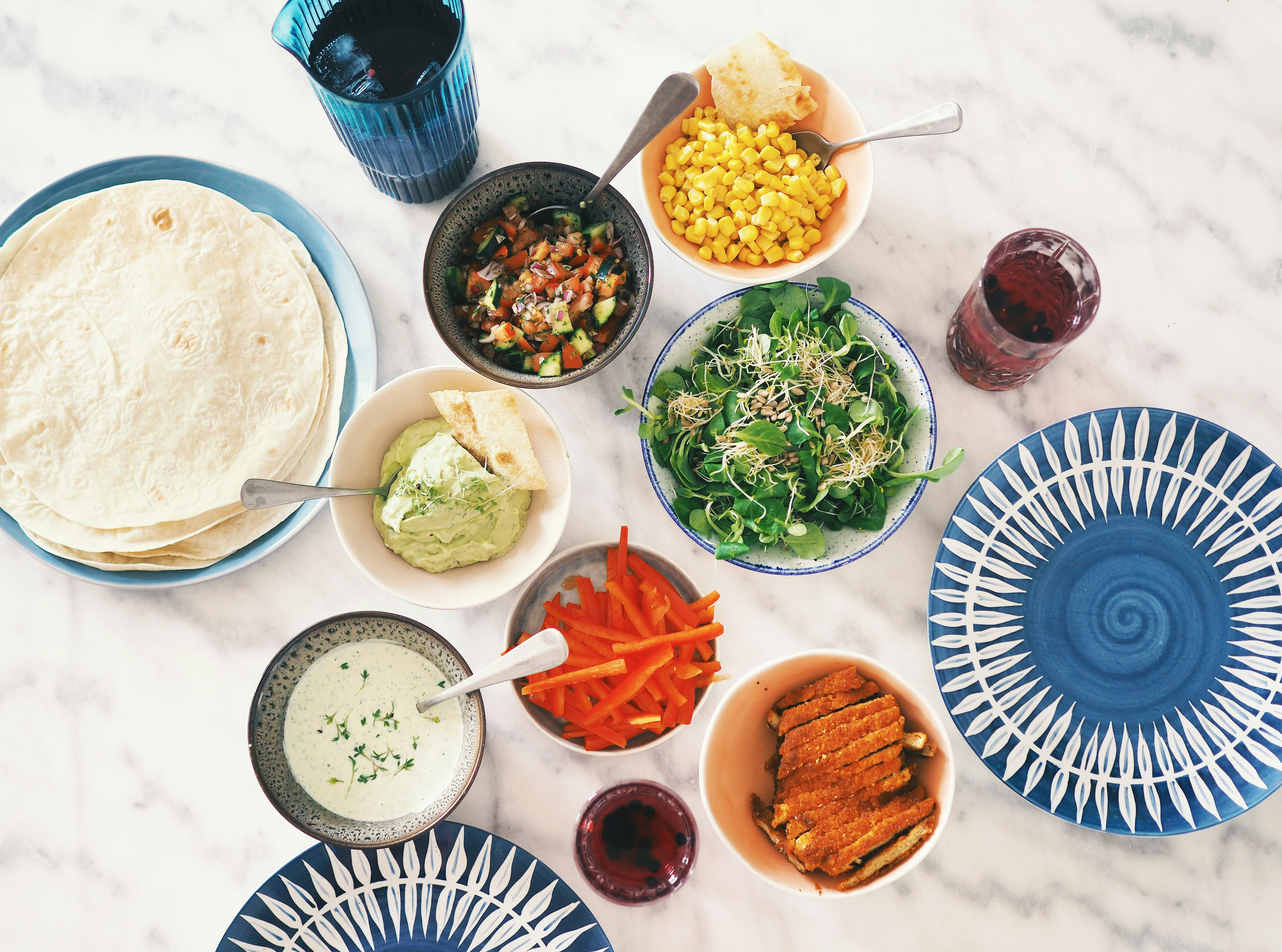
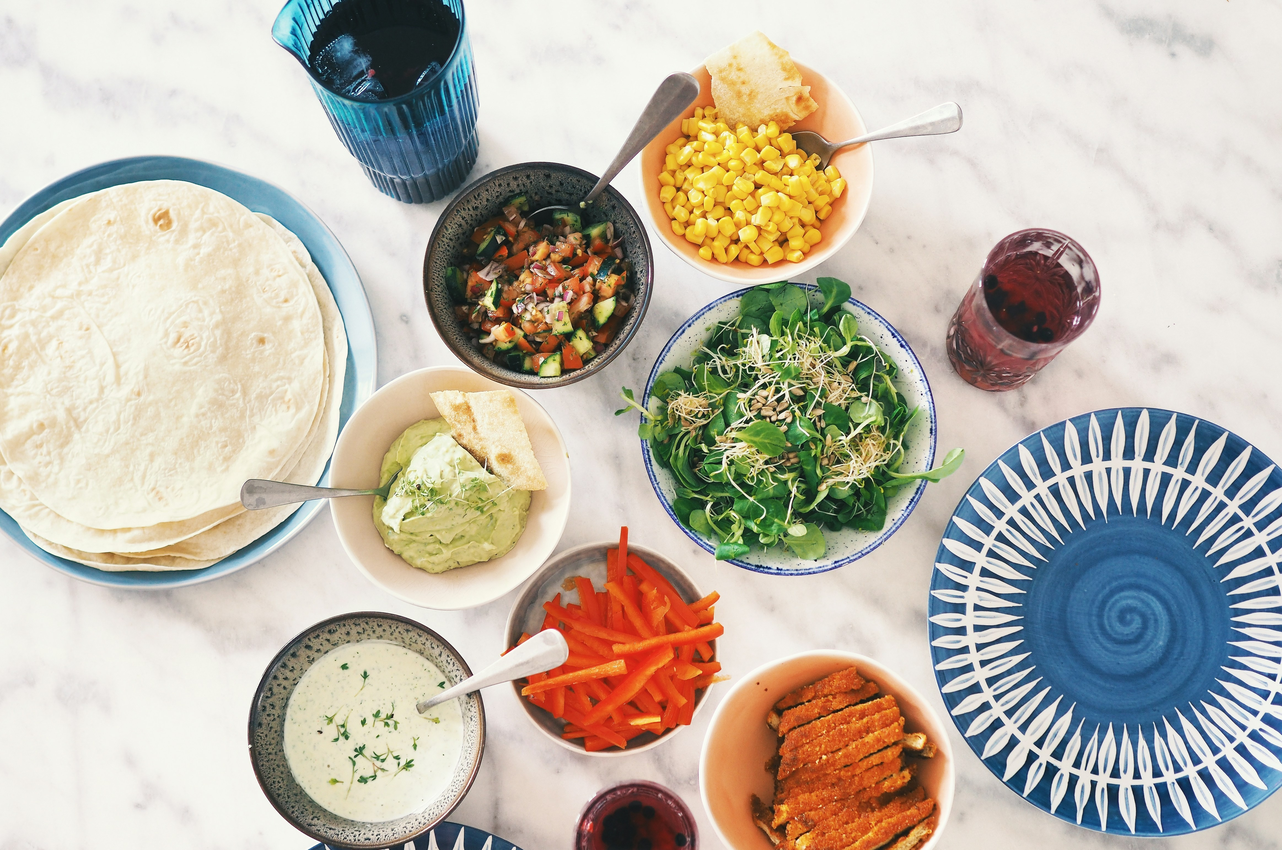
finished portfolio page

diff --git a/src/portfolio.html b/src/portfolio.html
@@ -58,7 +58,7 @@
                 <ul class="dropdown-menu">
                   <li><a class="dropdown-item" href="cardeal.html">Cardeal</a></li>
                   <li><a class="dropdown-item" href="skyline-apartments.html">Skyline Residences Apartments</a></li>
-                  <li><a class="dropdown-item" href="shop-til-you-drop.html">Shop Til' You Drop</a></li>
+                  <li><a class="dropdown-item" href="shop-til-you-drop.html">Shop 'Til You Drop</a></li>
                   <li><a class="dropdown-item" href="notes-app.html">Notes App</a></li>
                   <li><a class="dropdown-item" href="wildcat-store.html">Wildcat Store</a></li>
                   <li><a class="dropdown-item" href="recipe-meal-prep.html">Recipe & Meal Prep Website</a></li>
@@ -80,11 +80,137 @@
         </div>
       </div>
     </section>
-    <section>
-      <p></p>
+    <section class="portfolio-section">
+      <div class="container1">
+        <div class="row mt-5 mb-2">
+          <!-- Card 1 -->
+          <div class="col-md-6">
+            <div class="card">
+              <img src="./images/apartment-image.jpg" class="card-img-top" alt="Front-end Stack" />
+              <div class="card-body">
+                <h4 class="card-title text-center mt-3">Skyline Residences Prototype</h4>
+                <p class="text-left mt-4">
+                  I am creating an apartment prototype website for a fictitious company called Skyline Residences. This
+                  website shows different apartments in the apartment building for rent, and much more.
+                </p>
+              </div>
+              <div class="card-body text-center">
+                <a href="skyline-apartments.html" class="card-link btn btn-primary">Project Details</a>
+                <a
+                  href="https://skylineresidences.netlify.app/floor-plans"
+                  class="card-link btn btn-secondary text-white"
+                  >View Prototype</a
+                >
+              </div>
+            </div>
+          </div>
+
+          <!-- Card 2 -->
+          <div class="col-md-6">
+            <div class="card">
+              <img src="./images/cardeal.jpg" class="card-img-top" alt="Design Tools" />
+              <div class="card-body">
+                <h4 class="card-title text-center mt-3">Cardeal Prototype</h4>
+
+                <p class="text-left mt-4">
+                  I am created an car buying prototype website for a fictious company called Cardeal. This website
+                  allows people to sell their car for a different car. I used blue and green color pallet to be eye
+                  catching for everyone.
+                </p>
+              </div>
+              <div class="card-body text-center">
+                <a href="cardeal.html" class="card-link btn btn-primary">Project Details</a>
+                <a href="https://dainty-torrone-c259bc.netlify.app/" class="card-link btn btn-secondary text-white"
+                  >View Prototype</a
+                >
+              </div>
+            </div>
+          </div>
+        </div>
+        <div class="row mt-5 mb-2">
+          <!-- Card 1 -->
+          <div class="col-md-6">
+            <div class="card">
+              <img src="./images/shop-til-you-drop.jpg" class="card-img-top" alt="clothes on a hangers" />
+              <div class="card-body">
+                <h4 class="card-title text-center mt-3">Shop ‘Til You Drop Prototype</h4>
+                <p class="text-left mt-4">
+                  I created an shopping website for a fictitious company called Shop ‘Til You Drop. This was developed
+                  using React for one of my Web Development Classes.
+                </p>
+              </div>
+              <div class="card-body text-center">
+                <a href="shop-til-you-drop.html" class="card-link btn btn-primary">Project Details</a>
+                <a href="https://luminous-semifreddo-eba2d3.netlify.app/" class="card-link btn btn-secondary text-white"
+                  >View Prototype</a
+                >
+              </div>
+            </div>
+          </div>
+
+          <!-- Card 2 -->
+          <div class="col-md-6">
+            <div class="card">
+              <img src="./images/notes-app.jpg" class="card-img-top" alt="notebook with pink sticky note and pen" />
+              <div class="card-body">
+                <h4 class="card-title text-center mt-3">Note App Website</h4>
+
+                <p class="text-left mt-4">
+                  I am created an note app website for CS 3200. This website allows people to make 10 notes as a free
+                  user after that they will have to pay. It is still in the development stages.
+                </p>
+              </div>
+              <div class="card-body text-center">
+                <a href="notes-app.html" class="card-link btn btn-primary">Project Details</a>
+                <a href="https://dainty-torrone-c259bc.netlify.app/" class="card-link btn btn-secondary text-white"
+                  >View App</a
+                >
+              </div>
+            </div>
+          </div>
+        </div>
+        <div class="row mt-5 mb-2">
+          <!-- Card 1 -->
+          <div class="col-md-6">
+            <div class="card">
+              <img src="./images/wildcat-store.jpg" class="card-img-top" alt="Wildcat mascot with kitties" />
+              <div class="card-body">
+                <h4 class="card-title text-center mt-3">Wildcat Store Website</h4>
+                <p class="text-left mt-4">
+                  I helped launch a new website for the Wildcat Store at Weber State University. I picked out color
+                  pallet and what template we used for our site. This is one I still maintain at this moment.
+                </p>
+              </div>
+              <div class="card-body text-center">
+                <a href="wildcat-store.html" class="card-link btn btn-primary">Project Details</a>
+                <a href="https://www.wildcatstores.com/" class="card-link btn btn-secondary text-white">View Website</a>
+              </div>
+            </div>
+          </div>
+
+          <!-- Card 2 -->
+          <div class="col-md-6">
+            <div class="card">
+              <img src="./images/recipe-app.jpg" class="card-img-top" alt="blue plates with food on them" />
+              <div class="card-body">
+                <h4 class="card-title text-center mt-3">Recipe and Meal Planning Website</h4>
+
+                <p class="text-left mt-4">
+                  I am creating an recipe and meal planning website for my mom’s recipes. This website allows people to
+                  look at recipes and meal plan with them to buy the ingredients at the store.
+                </p>
+              </div>
+              <div class="card-body text-center">
+                <a href="recipe-meal-prep.html" class="card-link btn btn-primary">Project Details</a>
+                <a href="https://sensational-kitten-0359f6.netlify.app/" class="card-link btn btn-secondary text-white"
+                  >View Website</a
+                >
+              </div>
+            </div>
+          </div>
+        </div>
+      </div>
     </section>
-    <section></section>
-    <section></section>
     <footer class="footer bg-primary text-light mt-auto">
       <div class="container">
         <div class="row text-center text-md-left align-items-center">

diff --git a/src/about.html b/src/about.html
@@ -57,7 +57,7 @@
                 <ul class="dropdown-menu">
                   <li><a class="dropdown-item" href="cardeal.html">Cardeal</a></li>
                   <li><a class="dropdown-item" href="skyline-apartments.html">Skyline Residences Apartments</a></li>
-                  <li><a class="dropdown-item" href="shop-til-you-drop.html">Shop Til' You Drop</a></li>
+                  <li><a class="dropdown-item" href="shop-til-you-drop.html">Shop 'Til You Drop</a></li>
                   <li><a class="dropdown-item" href="notes-app.html">Notes App</a></li>
                   <li><a class="dropdown-item" href="wildcat-store.html">Wildcat Store</a></li>
                   <li><a class="dropdown-item" href="recipe-meal-prep.html">Recipe & Meal Prep Website</a></li>
@@ -360,6 +360,9 @@
                   <li class="list-group-item"><i class="fa-solid fa-atom me-2" style="color: #f28d8d"></i>Atom</li>
                   <li class="list-group-item"><img src="./images/pycharm.svg" alt="pycharm logo" /> PyCharm</li>
                   <li class="list-group-item"><img src="./images/file-type-vscode.svg" alt="vscode logo" />VSCode</li>
+                  <li class="list-group-item">
+                    <img src="./images/icons8-adobe-50.svg" alt="It is an adobe icon" />Adobe Dreamweaver
+                  </li>
                 </ul>
               </div>
             </div>

diff --git a/src/index.html b/src/index.html
@@ -57,7 +57,7 @@
                   <li><a class="dropdown-item" href="portfolio.html">View All Projects</a></li>
                   <li><a class="dropdown-item" href="cardeal.html">Cardeal</a></li>
                   <li><a class="dropdown-item" href="skyline-apartments.html">Skyline Residences Apartments</a></li>
-                  <li><a class="dropdown-item" href="shop-til-you-drop.html">Shop Til' You Drop</a></li>
+                  <li><a class="dropdown-item" href="shop-til-you-drop.html">Shop 'Til You Drop</a></li>
                   <li><a class="dropdown-item" href="notes-app.html">Notes App</a></li>
                   <li><a class="dropdown-item" href="wildcat-store.html">Wildcat Store</a></li>
                   <li><a class="dropdown-item" href="recipe-meal-prep.html">Recipe & Meal Prep Website</a></li>

diff --git a/src/cardeal.html b/src/cardeal.html
@@ -56,7 +56,7 @@
                 <ul class="dropdown-menu">
                   <li><a class="dropdown-item" href="cardeal.html">Cardeal</a></li>
                   <li><a class="dropdown-item" href="skyline-apartments.html">Skyline Residences Apartments</a></li>
-                  <li><a class="dropdown-item" href="shop-til-you-drop.html">Shop Til' You Drop</a></li>
+                  <li><a class="dropdown-item" href="shop-til-you-drop.html">Shop 'Til You Drop</a></li>
                   <li><a class="dropdown-item" href="notes-app.html">Notes App</a></li>
                   <li><a class="dropdown-item" href="wildcat-store.html">Wildcat Store</a></li>
                   <li><a class="dropdown-item" href="recipe-meal-prep.html">Recipe & Meal Prep Website</a></li>

diff --git a/src/contact.html b/src/contact.html
@@ -54,7 +54,7 @@
                 <ul class="dropdown-menu">
                   <li><a class="dropdown-item" href="cardeal.html">Cardeal</a></li>
                   <li><a class="dropdown-item" href="skyline-apartments.html">Skyline Residences Apartments</a></li>
-                  <li><a class="dropdown-item" href="shop-til-you-drop.html">Shop Til' You Drop</a></li>
+                  <li><a class="dropdown-item" href="shop-til-you-drop.html">Shop 'Til You Drop</a></li>
                   <li><a class="dropdown-item" href="notes-app.html">Notes App</a></li>
                   <li><a class="dropdown-item" href="wildcat-store.html">Wildcat Store</a></li>
                   <li><a class="dropdown-item" href="recipe-meal-prep.html">Recipe & Meal Prep Website</a></li>

diff --git a/src/notes-app.html b/src/notes-app.html
@@ -56,7 +56,7 @@
                 <ul class="dropdown-menu">
                   <li><a class="dropdown-item" href="cardeal.html">Cardeal</a></li>
                   <li><a class="dropdown-item" href="skyline-apartments.html">Skyline Residences Apartments</a></li>
-                  <li><a class="dropdown-item" href="shop-til-you-drop.html">Shop Til' You Drop</a></li>
+                  <li><a class="dropdown-item" href="shop-til-you-drop.html">Shop 'Til You Drop</a></li>
                   <li><a class="dropdown-item" href="notes-app.html">Notes App</a></li>
                   <li><a class="dropdown-item" href="wildcat-store.html">Wildcat Store</a></li>
                   <li><a class="dropdown-item" href="recipe-meal-prep.html">Recipe & Meal Prep Website</a></li>

diff --git a/src/recipe-meal-prep.html b/src/recipe-meal-prep.html
@@ -56,7 +56,7 @@
                 <ul class="dropdown-menu">
                   <li><a class="dropdown-item" href="cardeal.html">Cardeal</a></li>
                   <li><a class="dropdown-item" href="skyline-apartments.html">Skyline Residences Apartments</a></li>
-                  <li><a class="dropdown-item" href="shop-til-you-drop.html">Shop Til' You Drop</a></li>
+                  <li><a class="dropdown-item" href="shop-til-you-drop.html">Shop 'Til You Drop</a></li>
                   <li><a class="dropdown-item" href="notes-app.html">Notes App</a></li>
                   <li><a class="dropdown-item" href="wildcat-store.html">Wildcat Store</a></li>
                   <li><a class="dropdown-item" href="recipe-meal-prep.html">Recipe & Meal Prep Website</a></li>

diff --git a/src/shop-til-you-drop.html b/src/shop-til-you-drop.html
@@ -56,7 +56,7 @@
                 <ul class="dropdown-menu">
                   <li><a class="dropdown-item" href="cardeal.html">Cardeal</a></li>
                   <li><a class="dropdown-item" href="skyline-apartments.html">Skyline Residences Apartments</a></li>
-                  <li><a class="dropdown-item" href="shop-til-you-drop.html">Shop Til' You Drop</a></li>
+                  <li><a class="dropdown-item" href="shop-til-you-drop.html">Shop 'Til You Drop</a></li>
                   <li><a class="dropdown-item" href="notes-app.html">Notes App</a></li>
                   <li><a class="dropdown-item" href="wildcat-store.html">Wildcat Store</a></li>
                   <li><a class="dropdown-item" href="recipe-meal-prep.html">Recipe & Meal Prep Website</a></li>

diff --git a/src/skyline-apartments.html b/src/skyline-apartments.html
@@ -56,7 +56,7 @@
                 <ul class="dropdown-menu">
                   <li><a class="dropdown-item" href="cardeal.html">Cardeal</a></li>
                   <li><a class="dropdown-item" href="skyline-apartments.html">Skyline Residences Apartments</a></li>
-                  <li><a class="dropdown-item" href="shop-til-you-drop.html">Shop Til' You Drop</a></li>
+                  <li><a class="dropdown-item" href="shop-til-you-drop.html">Shop 'Til You Drop</a></li>
                   <li><a class="dropdown-item" href="notes-app.html">Notes App</a></li>
                   <li><a class="dropdown-item" href="wildcat-store.html">Wildcat Store</a></li>
                   <li><a class="dropdown-item" href="recipe-meal-prep.html">Recipe & Meal Prep Website</a></li>

diff --git a/src/wildcat-store.html b/src/wildcat-store.html
@@ -56,7 +56,7 @@
                 <ul class="dropdown-menu">
                   <li><a class="dropdown-item" href="cardeal.html">Cardeal</a></li>
                   <li><a class="dropdown-item" href="skyline-apartments.html">Skyline Residences Apartments</a></li>
-                  <li><a class="dropdown-item" href="shop-til-you-drop.html">Shop Til' You Drop</a></li>
+                  <li><a class="dropdown-item" href="shop-til-you-drop.html">Shop 'Til You Drop</a></li>
                   <li><a class="dropdown-item" href="notes-app.html">Notes App</a></li>
                   <li><a class="dropdown-item" href="wildcat-store.html">Wildcat Store</a></li>
                   <li><a class="dropdown-item" href="recipe-meal-prep.html">Recipe & Meal Prep Website</a></li>
